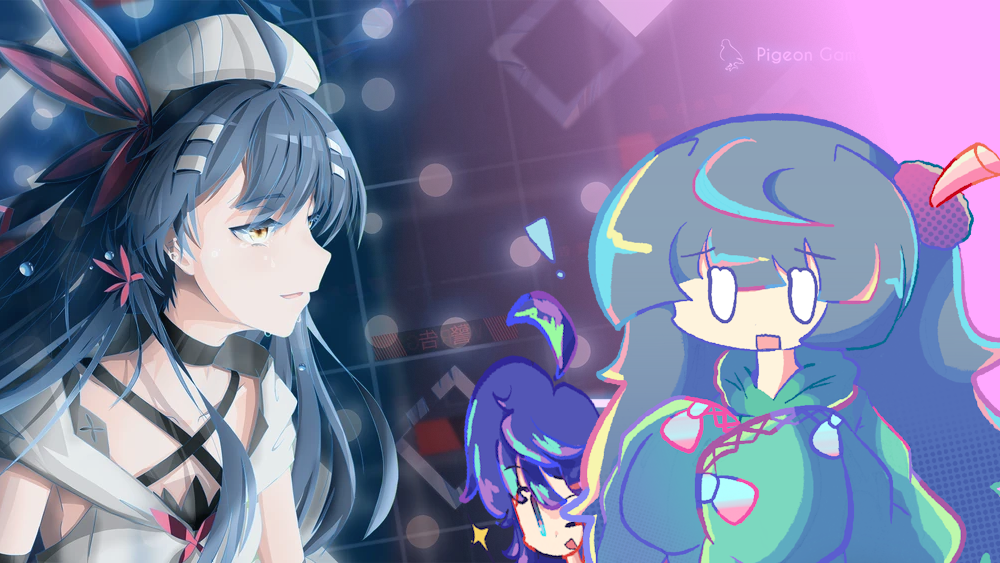
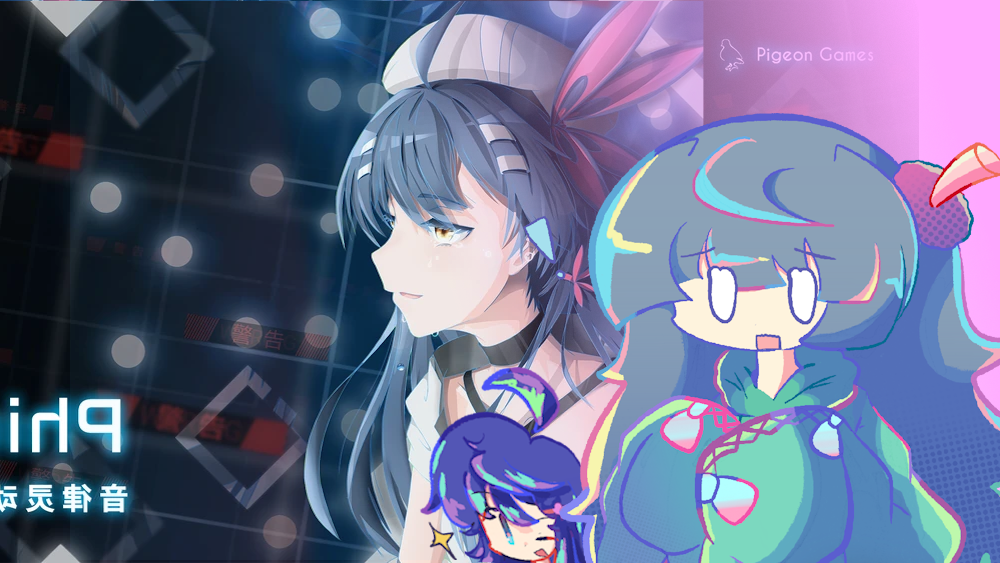
Added automatic bumper allocation algorithm, as well as support for converting timing bumper and bumper mine.

diff --git a/vsb2pez.py b/vsb2pez.py
@@ -441,7 +441,7 @@ def copy_resource_files(target_dir, chart_id, id_str, audio_ext):
         try:
             cover = Image.open(sprite_path).convert("RGBA").resize((300, 300), Image.NEAREST)
             base_w, base_h = base.size
-            offset_x = (base_w - 300) // 2
+            offset_x = (base_w - 300) // 15
             offset_y = (base_h - 300) // 2
             base.paste(cover, (offset_x, offset_y), cover)
         except Exception as e:
@@ -465,44 +465,235 @@ def convert_vsb_to_notes(vsb_data):
     lane_map_type0_2 = {0: -405, 1: -135, 2: 135, 3: 405}
     lane_map_type1 = {0: -270, 2: 270}
     fixed_note_template = {
-        "above": 1,
-        "alpha": 255,
-        "color": [255, 255, 255],
-        "endTime": [0, 0, 1],
-        "isFake": 0,
-        "judgeArea": 1.0,
-        "positionX": 0.0,
-        "size": 1.0,
-        "speed": 1.0,
-        "startTime": [0, 0, 1],
-        "type": 1,
-        "visibleTime": 999999.0,
-        "yOffset": 0.0
+        "above": 1, "alpha": 255, "color": [255, 255, 255],
+        "endTime": [0, 0, 1], "isFake": 0, "judgeArea": 1.0,
+        "positionX": 0.0, "size": 1.0, "speed": 1.0,
+        "startTime": [0, 0, 1], "type": 1, "visibleTime": 1.0, "yOffset": 0.0
     }
+
     notes_list = []
-    for note in vsb_data:
-        if note['type'] not in [0, 1, 2, 5, 6]:
+    raw_notes = []  # (时间, 类型, 轨道, 原始索引, 结束时间, 半区)
+
+    # 预处理
+    for idx, note in enumerate(vsb_data):
+        if note['type'] not in [0, 1, 2, 6, 7, 8]:
             continue
-        new_note = fixed_note_template.copy()
+
         t_start = Fraction(int(note['time']), 1000) + 1
-        new_note['startTime'] = [int(t_start), t_start.numerator % t_start.denominator, t_start.denominator]
-        new_note['endTime'] = new_note['startTime'].copy()
-        if note['type'] in [0, 2, 5]:
-            new_note['type'] = 1
-            new_note['positionX'] = lane_map_type0_2.get(note['lane'], 0.0)
+        t_end = t_start
+
+        if note['type'] in [0, 2]:  # chip/hold
             if 'extra' in note and note['extra']:
-                new_note['type'] = 2
                 t_end = Fraction(int(note['extra']['1']), 1000) + 1
-                new_note['endTime'] = [int(t_end), t_end.numerator % t_end.denominator, t_end.denominator]
-        elif note['type'] == 1:
-            new_note['type'] = 1
-            new_note['positionX'] = lane_map_type1.get(note['lane'], 0.0)
-        elif note['type'] == 6:
-            new_note['type'] = 3
-            new_note['isFake'] = 1
-            new_note['alpha'] = 127
-            new_note['positionX'] = lane_map_type0_2.get(note['lane'], 0.0)
-        notes_list.append(new_note)
+            half = 0 if note['lane'] in [0, 1] else 2
+            raw_notes.append((t_start, 0, note['lane'], idx, t_end, half))
+        elif note['type'] in [1, 8]:  # bumper
+            half = note['lane']
+            raw_notes.append((t_start, 1, note['lane'], idx, t_end, half))
+        elif note['type'] == 6:  # mine
+            half = 0 if note['lane'] in [0, 1] else 2
+            raw_notes.append((t_start, 6, note['lane'], idx, t_end, half))
+        elif note['type'] == 7:  # bumper mine
+            half = note['lane']
+            raw_notes.append((t_start, 7, note['lane'], idx, t_end, half))
+
+    raw_notes.sort(key=lambda x: x[0])
+
+    # 半区处理
+    for target_half in [0, 2]:
+        half_notes = [n for n in raw_notes if n[5] == target_half]
+        i = 0
+
+        while i < len(half_notes):
+            time, typ, lane, orig_idx, end_time, _ = half_notes[i]
+
+            # not bumper
+            if typ != 1:
+                new_note = fixed_note_template.copy()
+                new_note['startTime'] = [int(time), time.numerator % time.denominator, time.denominator]
+                new_note['endTime'] = [int(end_time), end_time.numerator % end_time.denominator, end_time.denominator]
+
+                if typ == 0:  # Chip/Hold
+                    if lane in [target_half, target_half + 1]:
+                        new_note['positionX'] = lane_map_type0_2[lane]
+                        if end_time != time:
+                            new_note['type'] = 2
+                    else:
+                        new_note['positionX'] = lane_map_type1[lane]
+                elif typ == 6:  # 普通地雷
+                    new_note['type'] = 3
+                    new_note['isFake'] = 1
+                    new_note['alpha'] = 127
+                    new_note['positionX'] = lane_map_type0_2.get(lane, 0.0)
+                elif typ == 7:  # bumper地雷
+                    new_note['type'] = 3
+                    new_note['isFake'] = 1
+                    new_note['alpha'] = 127
+                    new_note['positionX'] = lane_map_type1.get(lane, 0.0)
+                    new_note['size'] = 2.6
+
+                notes_list.append(new_note)
+                i += 1
+                continue
+
+            # bumper chain detection
+            chain_start = i
+            chain_end = i
+
+            while chain_end + 1 < len(half_notes) and half_notes[chain_end + 1][1] == 1:
+                chain_end += 1
+
+            chain = half_notes[chain_start:chain_end + 1]
+
+            # 如果有hold盖着直接确定
+            filtered_chain = []
+            for bumper in chain:
+                b_time = bumper[0]
+                cover_info = None
+
+                for lane in [target_half, target_half + 1]:
+                    idx = chain_start - 1
+                    while idx >= 0:
+                        t, tp, ln, _, et, _ = half_notes[idx]
+                        if ln == lane and tp == 0 and et > b_time:
+                            if cover_info is not None:
+                                raise ValueError(f"轨道{target_half}/{target_half + 1}上同时有Hold覆盖Bumper，bro你这怎么打")
+                            cover_info = (True, ln)
+                            break
+                        idx -= 1
+
+                if cover_info:
+                    new_note = fixed_note_template.copy()
+                    b_time = bumper[0]
+                    new_note['startTime'] = [int(b_time), b_time.numerator % b_time.denominator, b_time.denominator]
+                    new_note['endTime'] = new_note['startTime'].copy()
+                    new_note['type'] = 1
+                    base_pos = -270 if target_half == 0 else 270
+                    cover_lane = cover_info[1]
+                    offset = 85 if cover_lane in [0, 2] else -85
+                    new_note['positionX'] = base_pos + offset
+                    notes_list.append(new_note)
+                else:
+                    filtered_chain.append(bumper)
+
+            if not filtered_chain:
+                i = chain_end + 1
+                continue
+
+            # (虚拟)头音符
+            def get_virtual_head_note():
+                lanes = [target_half, target_half + 1]
+                candidates = []
+
+                for lane in lanes:
+                    idx = chain_start - 1
+                    while idx >= 0:
+                        if half_notes[idx][2] == lane:
+                            t, tp, ln, _, et, _ = half_notes[idx]
+                            is_chip = (tp == 0 and et == t)
+                            effective_time = et if (tp == 0 and et > t) else t
+                            candidates.append((effective_time, ln, is_chip))
+                            break
+                        idx -= 1
+
+                if not candidates:
+                    return None, None
+
+                if len(candidates) == 2 and candidates[0][0] == candidates[1][0]:
+                    # 双押情况下Chip优先
+                    chip_candidates = [c for c in candidates if c[2]]
+                    if len(chip_candidates) == 1:
+                        return chip_candidates[0][0], chip_candidates[0][1]
+
+                best = max(candidates, key=lambda x: x[0])
+                return best[0], best[1]
+
+            # 尾音符
+            def get_tail_note():
+                idx = chain_end + 1
+                while idx < len(half_notes) and half_notes[idx][1] == 1:
+                    idx += 1
+
+                if idx >= len(half_notes):
+                    return None, None
+
+                t, tp, ln, _, et, _ = half_notes[idx]
+                return (t, ln)
+
+            head_time, head_lane = get_virtual_head_note()
+            tail_time, tail_lane = get_tail_note()
+
+            # 倾向
+            def get_tendency(lane, half):
+                if lane == half:
+                    return half + 1
+                elif lane == half + 1:
+                    return half
+                return None
+
+            head_tendency = get_tendency(head_lane, target_half) if head_lane is not None else None
+            tail_tendency = get_tendency(tail_lane, target_half) if tail_lane is not None else None
+
+            # 双押处理
+            if head_tendency is None and tail_tendency is not None:
+                head_tendency = tail_tendency
+            elif tail_tendency is None and head_tendency is not None:
+                tail_tendency = head_tendency
+            elif head_tendency is None and tail_tendency is None:
+                head_tendency = target_half + 1 if target_half == 0 else target_half
+
+            # 初始交替分配
+            assigned_lanes = []
+            cur = head_tendency
+            for _ in filtered_chain:
+                assigned_lanes.append(cur)
+                cur = target_half + 1 if cur == target_half else target_half
+
+            # 对齐验证
+            if assigned_lanes and tail_tendency is not None:
+                if assigned_lanes[-1] != tail_tendency:
+                    intervals = []
+
+                    # 头->首
+                    if head_time is not None:
+                        gap = filtered_chain[0][0] - head_time
+                        intervals.append((gap, -1))
+
+                    # 中间
+                    for j in range(len(filtered_chain) - 1):
+                        gap = filtered_chain[j + 1][0] - filtered_chain[j][4] if filtered_chain[j][4] > \
+                                                                                 filtered_chain[j][0] else \
+                        filtered_chain[j + 1][0] - filtered_chain[j][0]
+                        intervals.append((gap, j))
+
+                    # 尾->末
+                    if tail_time is not None:
+                        last_end = filtered_chain[-1][4] if filtered_chain[-1][4] > filtered_chain[-1][0] else \
+                        filtered_chain[-1][0]
+                        gap = tail_time - last_end
+                        intervals.append((gap, len(filtered_chain) - 1))
+
+                    intervals.sort(key=lambda x: (-float(x[0]), -x[1]))
+                    max_gap_idx = intervals[0][1]
+
+                    for k in range(max_gap_idx + 1, len(assigned_lanes)):
+                        assigned_lanes[k] = target_half + 1 if assigned_lanes[k] == target_half else target_half
+
+            # 输出bumper
+            for (time, _, _, _, _, _), out_lane in zip(filtered_chain, assigned_lanes):
+                new_note = fixed_note_template.copy()
+                new_note['startTime'] = [int(time), time.numerator % time.denominator, time.denominator]
+                new_note['endTime'] = new_note['startTime'].copy()
+                new_note['type'] = 1
+
+                base_pos = -270 if target_half == 0 else 270
+                offset = -85 if out_lane in [0, 2] else 85
+                new_note['positionX'] = base_pos + offset
+
+                notes_list.append(new_note)
+
+            i = chain_end + 1
+
     return notes_list
 
 
